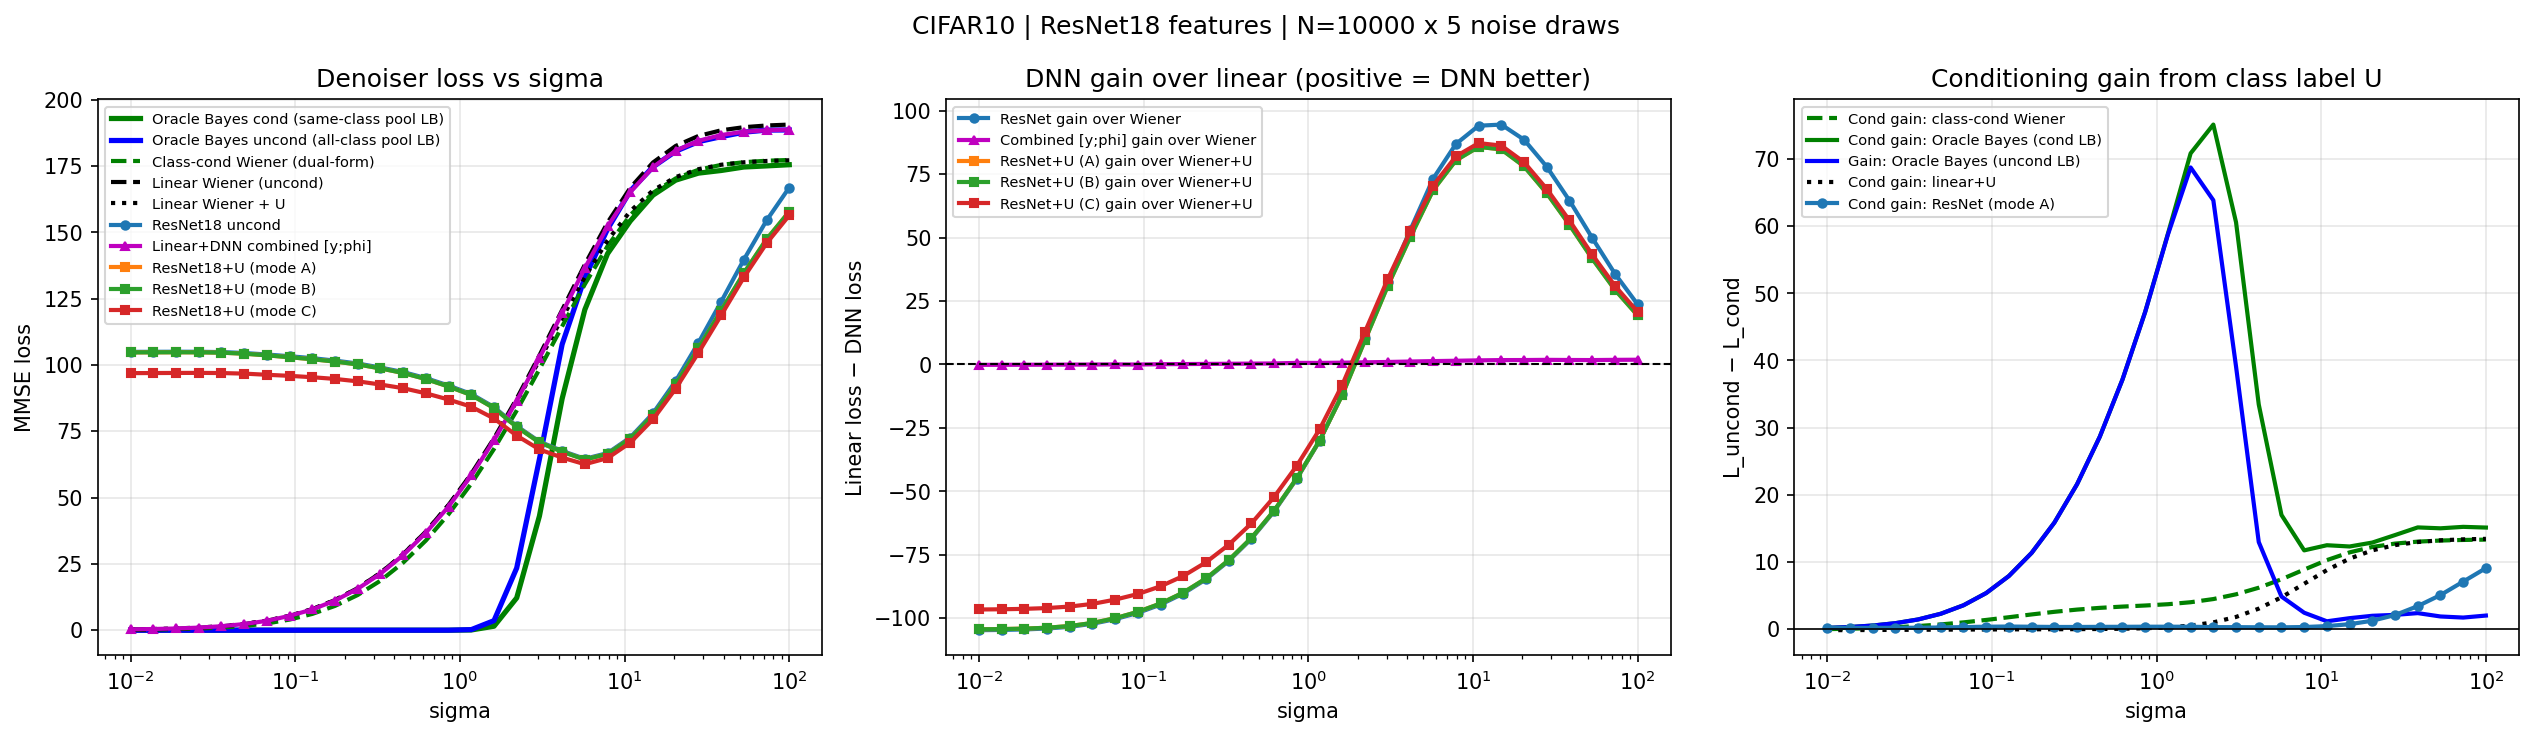
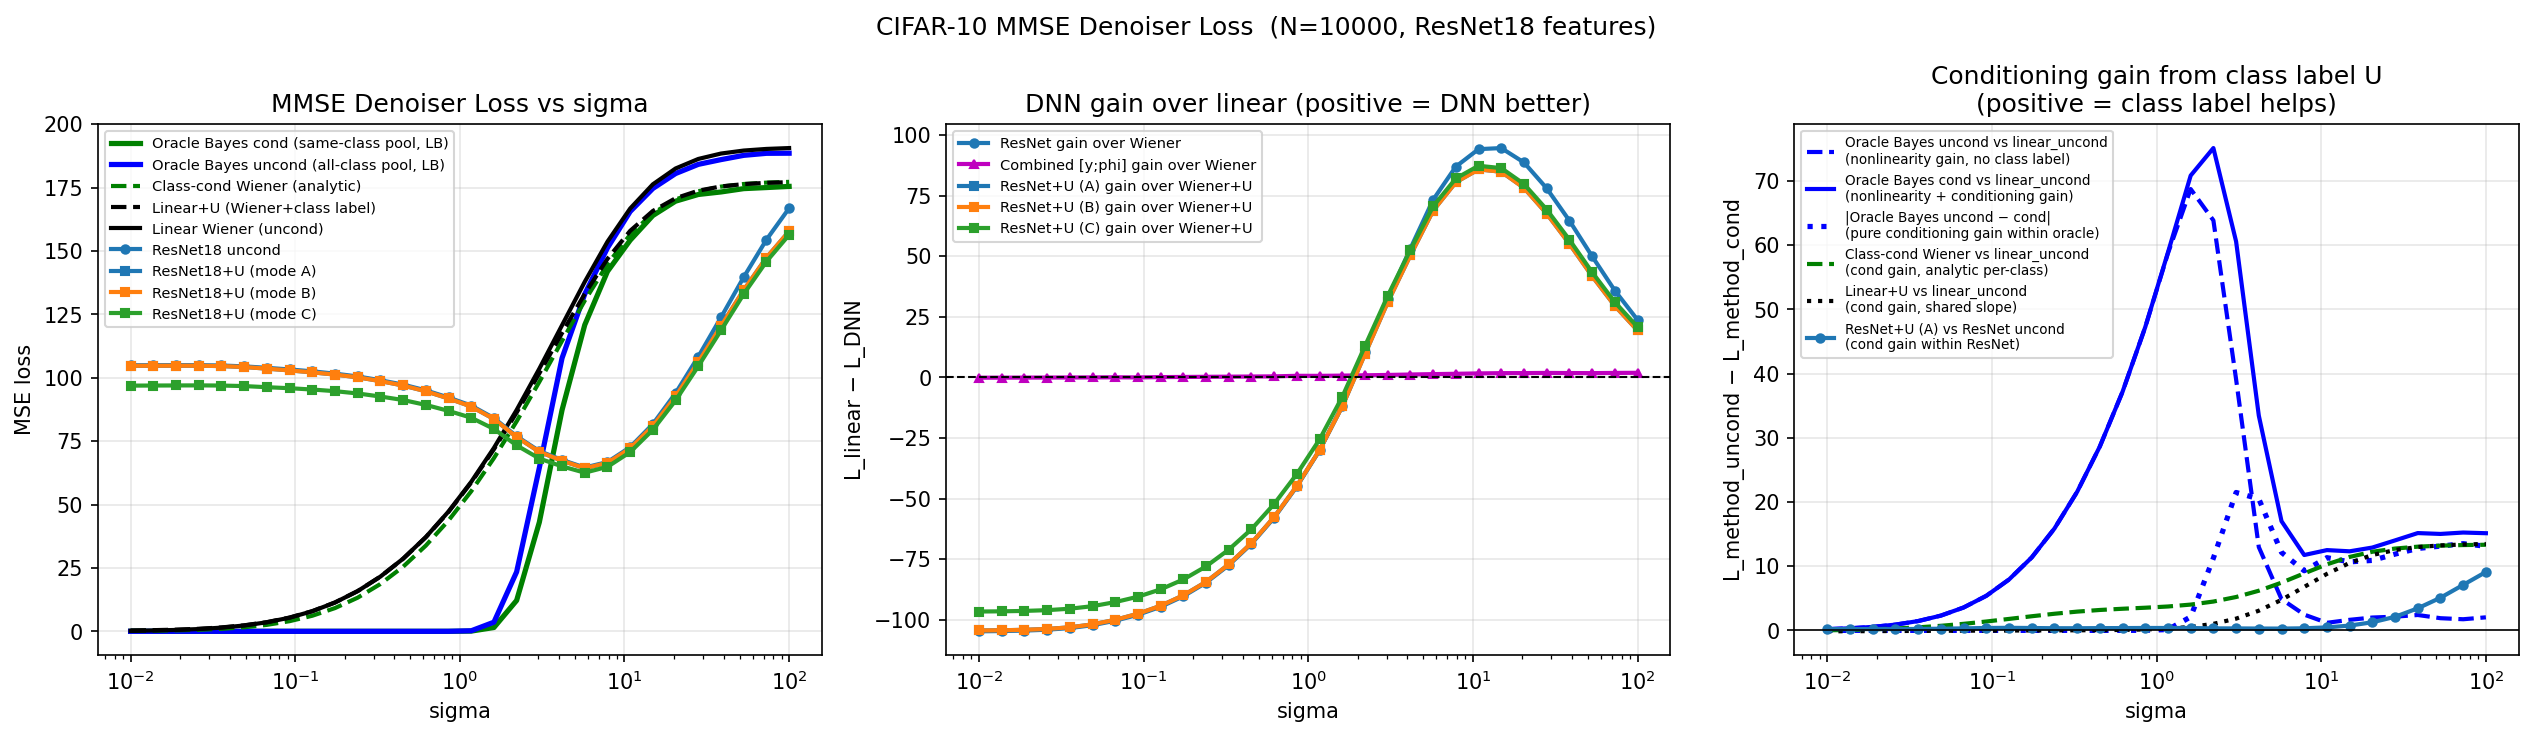
plot: clarify panel 3 legends, add |bayes_uncond - bayes_cond| curve
Adds explicit pure-conditioning-gain curve for oracle Bayes.
Improves legend text to clarify baseline for each curve.

diff --git a/scripts/dnn_feature_mmse.py b/scripts/dnn_feature_mmse.py
@@ -784,21 +784,28 @@ def plot_results(results, args):
 
     # --- Panel 3: conditioning gain for each method ---
     ax = axes[2]
-    ax.plot(sigma, results['linear_uncond']     - results['wiener_class_cond'],
-            'g--', lw=2, label='Cond gain: class-cond Wiener')
-    ax.plot(sigma, results['linear_uncond']     - results['bayes_cond'],
-            'g-',  lw=2, label='Cond gain: Oracle Bayes (cond LB)')
+    # Gains relative to linear_uncond baseline (mixing nonlinearity + conditioning)
     ax.plot(sigma, results['linear_uncond']     - results['bayes_uncond'],
-            'b-',  lw=2, label='Gain: Oracle Bayes (uncond LB)')
+            'b--', lw=2, label='Oracle Bayes uncond vs linear_uncond\n(nonlinearity gain, no class label)')
+    ax.plot(sigma, results['linear_uncond']     - results['bayes_cond'],
+            'b-',  lw=2, label='Oracle Bayes cond vs linear_uncond\n(nonlinearity + conditioning gain)')
+    # Direct oracle conditioning gain: how much does class label help within oracle Bayes
+    bayes_cond_arr   = np.array(results['bayes_cond'])
+    bayes_uncond_arr = np.array(results['bayes_uncond'])
+    ax.plot(sigma, np.abs(bayes_uncond_arr - bayes_cond_arr),
+            'b:', lw=2.5, label='|Oracle Bayes uncond − cond|\n(pure conditioning gain within oracle)')
+    # Conditioning gains for linear/DNN methods (relative to their own uncond baseline)
+    ax.plot(sigma, results['linear_uncond']     - results['wiener_class_cond'],
+            'g--', lw=2, label='Class-cond Wiener vs linear_uncond\n(cond gain, analytic per-class)')
     ax.plot(sigma, results['linear_uncond']     - results['linear_cond'],
-            'k:',  lw=2, label='Cond gain: linear+U')
+            'k:',  lw=2, label='Linear+U vs linear_uncond\n(cond gain, shared slope)')
     ax.plot(sigma, results['resnet_uncond']     - results[f'resnet_cond_{args.modes[0]}'],
-            'C0-o', lw=2, ms=4, label=f'Cond gain: ResNet (mode {args.modes[0]})')
+            'C0-o', lw=2, ms=4, label=f'ResNet+U (mode {args.modes[0]}) vs ResNet uncond\n(cond gain within ResNet)')
     ax.set_xscale('log')
     ax.set_xlabel('sigma')
-    ax.set_ylabel('L_uncond − L_cond')
-    ax.set_title('Conditioning gain from class label U')
-    ax.legend(fontsize=7)
+    ax.set_ylabel('L_method_uncond − L_method_cond')
+    ax.set_title('Conditioning gain from class label U\n(positive = class label helps)')
+    ax.legend(fontsize=6.5)
     ax.grid(True, alpha=0.3)
     ax.axhline(0, color='k', lw=0.8)
 